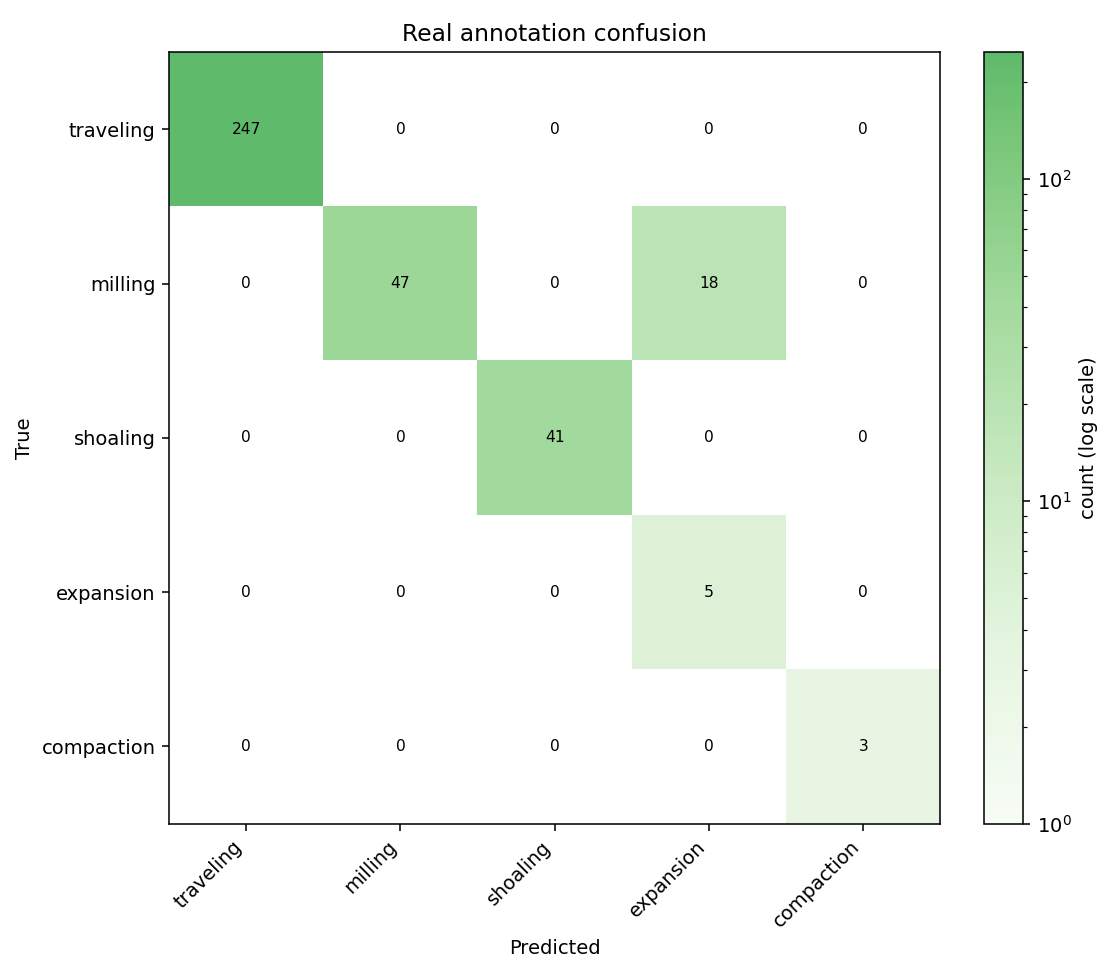
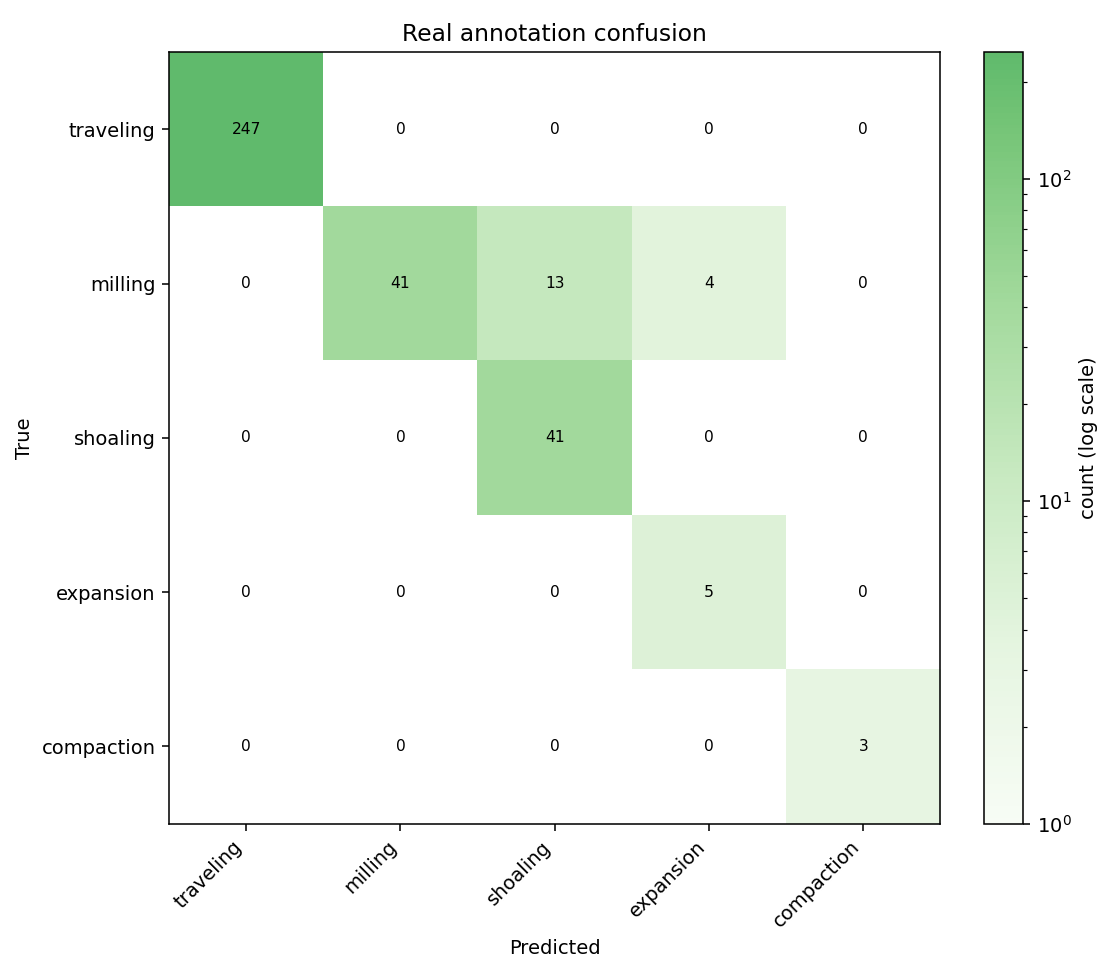
Update behavior configurations and evaluation metrics for improved simulation performance
- Adjusted parameters in YAML files for compaction, expansion, milling, shoaling, and traveling polarized behaviors to enhance simulation accuracy.
- Revised evaluation metrics in JSON files, resulting in updated accuracy and F1 scores for classifiers.
- Modified the training script to incorporate new initial evaluation settings, improving the robustness of the tuning process.

These changes aim to optimize the fish school simulator's classification framework and enhance the overall performance of its evaluation processes.

Changed region(s): [[0.4062, 0.1837, 0.7188, 0.3673]]

diff --git a/src/tune/feature_match.py b/src/tune/feature_match.py
@@ -1,15 +1,21 @@
-"""Random search to match sim order-parameter stats to real calibration targets."""
+"""Bayesian optimization to match sim order-parameter stats to real calibration targets."""
 
 from __future__ import annotations
 
 import json
 import sys
+import warnings
 from datetime import datetime, timezone
 from pathlib import Path
 from typing import Any
 
 import numpy as np
 import yaml
+from scipy.optimize import differential_evolution
+from scipy.stats import norm
+from sklearn.exceptions import ConvergenceWarning
+from sklearn.gaussian_process import GaussianProcessRegressor
+from sklearn.gaussian_process.kernels import ConstantKernel, Matern, WhiteKernel
 
 ROOT = Path(__file__).resolve().parents[2]
 if str(ROOT) not in sys.path:
@@ -24,7 +30,7 @@ from src.tune.calibration import (
     summarize_behavior_sims,
     total_calibration_loss,
 )
-from src.tune.search_space import SEARCH_SPACE, round_overrides, sample_overrides
+from src.tune.search_space import SEARCH_SPACE, round_overrides
 
 
 def _canonical_behavior_map(d: dict[str, Any] | None) -> dict[str, Any]:
@@ -69,6 +75,86 @@ def _yaml_center(behavior: str) -> dict:
     return _pick(SEARCH_SPACE.get(behavior, {}), cfg)
 
 
+def _param_bounds(behavior: str) -> tuple[list[str], np.ndarray]:
+    space = SEARCH_SPACE[behavior]
+    keys = list(space.keys())
+    bounds = np.array([space[k] for k in keys], dtype=float)
+    return keys, bounds
+
+
+def _clip_to_bounds(x: np.ndarray, bounds: np.ndarray) -> np.ndarray:
+    return np.clip(x, bounds[:, 0], bounds[:, 1])
+
+
+def _center_vector(keys: list[str], bounds: np.ndarray, center: dict) -> np.ndarray:
+    x = np.empty(len(keys), dtype=float)
+    for i, key in enumerate(keys):
+        lo, hi = bounds[i]
+        if key in center and isinstance(center[key], (int, float)):
+            x[i] = float(center[key])
+        else:
+            x[i] = 0.5 * (lo + hi)
+    return _clip_to_bounds(x, bounds)
+
+
+def _finite_loss(loss: float) -> float:
+    if not np.isfinite(loss):
+        return 1e6
+    return float(loss)
+
+
+def _suggest_bayes(Xs: np.ndarray, ys: np.ndarray, bounds: np.ndarray, rng: np.random.Generator) -> np.ndarray:
+    """Next point by maximizing expected improvement on the unit cube."""
+    lo, hi = bounds[:, 0], bounds[:, 1]
+    span = np.maximum(hi - lo, 1e-12)
+    Xu = (Xs - lo) / span
+    y_best = float(np.min(ys))
+    n_dim = Xs.shape[1]
+    kernel = ConstantKernel(1.0, (1e-3, 1e3)) * Matern(
+        length_scale=np.ones(n_dim),
+        length_scale_bounds=(1e-2, 1e2),
+        nu=2.5,
+    ) + WhiteKernel(noise_level=0.05, noise_level_bounds=(1e-5, 1.0))
+    gp = GaussianProcessRegressor(
+        kernel=kernel,
+        normalize_y=True,
+        optimizer=None if Xs.shape[0] < 3 else "fmin_l_bfgs_b",
+        n_restarts_optimizer=0 if Xs.shape[0] < 3 else 2,
+        random_state=int(rng.integers(0, 2**31 - 1)),
+    )
+    with warnings.catch_warnings():
+        warnings.simplefilter("ignore", ConvergenceWarning)
+        try:
+            gp.fit(Xu, ys)
+        except Exception:
+            return rng.uniform(lo, hi)
+
+        unit_bounds = [(0.0, 1.0)] * n_dim
+        xi = 0.01
+
+        def neg_ei(u: np.ndarray) -> float:
+            mu, sigma = gp.predict(np.asarray(u, dtype=float).reshape(1, -1), return_std=True)
+            sigma = max(float(sigma[0]), 1e-9)
+            z = (y_best - float(mu[0]) - xi) / sigma
+            ei = (y_best - float(mu[0]) - xi) * norm.cdf(z) + sigma * norm.pdf(z)
+            return -float(ei)
+
+        seed = int(rng.integers(0, 2**31 - 1))
+        try:
+            result = differential_evolution(
+                neg_ei,
+                unit_bounds,
+                seed=seed,
+                maxiter=40,
+                polish=True,
+                updating="immediate",
+            )
+            u = np.clip(result.x, 0.0, 1.0)
+            return lo + u * span
+        except Exception:
+            return rng.uniform(lo, hi)
+
+
 def tune_behavior(
     behavior: str,
     target_report: dict[str, dict],
@@ -77,7 +163,7 @@ def tune_behavior(
     n_seeds: int = 16,
     n_values: list[int] | None = None,
     n_jobs: int = -1,
-    jitter: float = 0.35,
+    n_initial: int = 10,
     rng: np.random.Generator | None = None,
     show_progress: bool = True,
 ) -> dict[str, Any]:
@@ -88,22 +174,28 @@ def tune_behavior(
     n_values = n_values or [20, 40]
     rng = rng or np.random.default_rng()
     target_block = target_report[behavior]
+    keys, bounds = _param_bounds(behavior)
+    n_initial = int(max(0, min(n_initial, max(n_trials - 1, 0))))
 
     best_loss = float("inf")
     best_overrides: dict = {}
     center = _yaml_center(behavior)
     trials: list[dict[str, Any]] = []
+    Xs: list[np.ndarray] = []
+    ys: list[float] = []
 
     for trial_idx in range(n_trials):
-        use_jitter = jitter if center else 0.0
-        center_dict = {behavior: center} if center else None
-        overrides = sample_overrides(
-            rng,
-            behaviors=[behavior],
-            center=center_dict,
-            jitter=use_jitter,
-        )
-        ov = overrides.get(behavior, {})
+        if trial_idx == 0 and center:
+            x = _center_vector(keys, bounds, center)
+            stage = "init-yaml"
+        elif trial_idx <= n_initial:
+            x = rng.uniform(bounds[:, 0], bounds[:, 1])
+            stage = "init-random"
+        else:
+            x = _suggest_bayes(np.vstack(Xs), np.asarray(ys), bounds, rng)
+            x = _clip_to_bounds(x, bounds)
+            stage = "bayes"
+        ov = {key: float(val) for key, val in zip(keys, x)}
         sim_report = summarize_behavior_sims(
             behavior,
             ov,
@@ -113,9 +205,12 @@ def tune_behavior(
         )
         loss = behavior_calibration_loss(sim_report[behavior], target_block)
         score = score_from_loss(loss)
+        Xs.append(x)
+        ys.append(_finite_loss(loss))
         record = {
             "behavior": behavior,
             "trial": trial_idx + 1,
+            "stage": stage,
             "loss": loss,
             "score": score,
             "n_segments": sim_report[behavior]["n_segments"],
@@ -127,7 +222,7 @@ def tune_behavior(
         if show_progress:
             sf = sim_report[behavior]["features"]
             print(
-                f"  trial {trial_idx + 1:3d}/{n_trials}  loss={loss:.4f}  "
+                f"  trial {trial_idx + 1:3d}/{n_trials}  {stage:11s}  loss={loss:.4f}  "
                 f"phi_trans={sf['phi_trans_mean']['mean']:.3f}  "
                 f"psi_tan={sf['psi_tan_mean']['mean']:.3f}  "
                 f"psi_rad={sf['psi_rad_pm_mean']['mean']:+.3f}"
@@ -136,7 +231,6 @@ def tune_behavior(
         if loss < best_loss:
             best_loss = loss
             best_overrides = ov
-            center = ov
             if show_progress:
                 print(f"    new best (loss={best_loss:.4f})")
 
@@ -158,7 +252,7 @@ def tune_all_behaviors(
     n_seeds: int = 16,
     n_values: list[int] | None = None,
     n_jobs: int = -1,
-    jitter: float = 0.35,
+    n_initial: int = 10,
     show_progress: bool = True,
 ) -> dict[str, Any]:
     """Tune each behavior independently, then merge best overrides."""
@@ -187,7 +281,7 @@ def tune_all_behaviors(
             n_seeds=n_seeds,
             n_values=n_values,
             n_jobs=n_jobs,
-            jitter=jitter,
+            n_initial=n_initial,
             rng=rng,
             show_progress=show_progress,
         )
@@ -229,6 +323,7 @@ def tune_all_behaviors(
         "n_trials_per_behavior": n_trials,
         "n_seeds": n_seeds,
         "n_values": n_values or [20, 40],
+        "n_initial": n_initial,
         "total_loss": total_calibration_loss(
             sim_report,
             target_report,

diff --git a/scripts/tune_features.py b/scripts/tune_features.py
@@ -88,7 +88,12 @@ def main() -> None:
         help="Group sizes to simulate",
     )
     parser.add_argument("--n-jobs", type=int, default=-1)
-    parser.add_argument("--jitter", type=float, default=0.35, help="Local search radius around best")
+    parser.add_argument(
+        "--n-initial",
+        type=int,
+        default=10,
+        help="Random evaluations after the YAML start; 0 = YAML then Bayesian proposals only",
+    )
     parser.add_argument(
         "--behaviors",
         nargs="*",
@@ -118,10 +123,12 @@ def main() -> None:
     n_trials = args.trials
     n_seeds = args.n_seeds
     n_values = list(args.n_values)
+    n_initial = args.n_initial
     if args.fast:
         n_trials = min(n_trials, 12)
         n_seeds = min(n_seeds, 8)
         n_values = [20]
+        n_initial = min(n_initial, 5)
 
     summary = tune_all_behaviors(
         args.target,
@@ -130,7 +137,7 @@ def main() -> None:
         n_seeds=n_seeds,
         n_values=n_values,
         n_jobs=args.n_jobs,
-        jitter=args.jitter,
+        n_initial=n_initial,
     )
 
     _print_feature_summary(summary)
